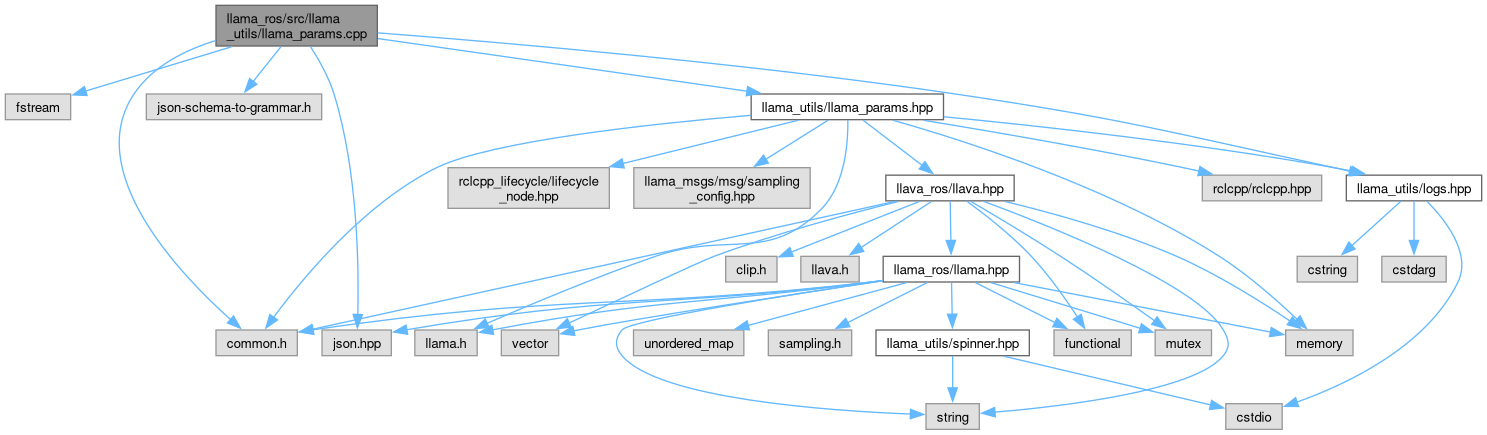
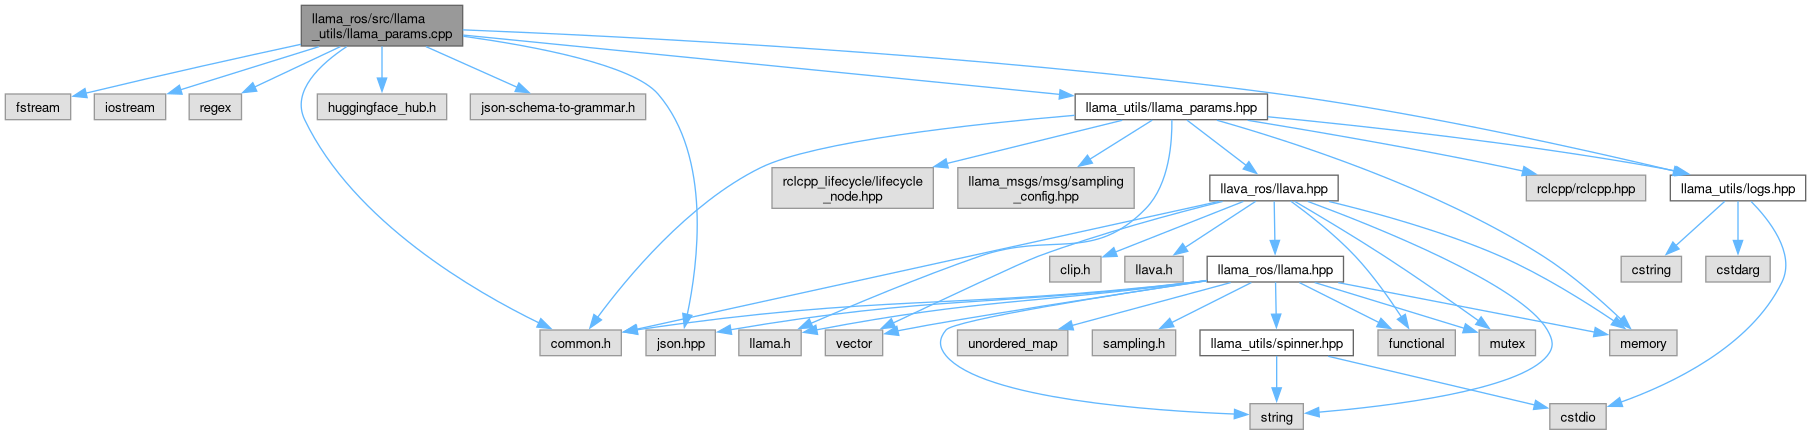
deploy: a3aeaef8e3c0aaeb9410228026620b6e1e5f8cbe

diff --git a/llama__params_8cpp.html b/llama__params_8cpp.html
@@ -95,7 +95,10 @@ $(function(){ initResizable(false); });
 </div><!--header-->
 <div class="contents">
 <div class="textblock"><code>#include &lt;fstream&gt;</code><br />
+<code>#include &lt;iostream&gt;</code><br />
+<code>#include &lt;regex&gt;</code><br />
 <code>#include &quot;common.h&quot;</code><br />
+<code>#include &quot;huggingface_hub.h&quot;</code><br />
 <code>#include &quot;json-schema-to-grammar.h&quot;</code><br />
 <code>#include &quot;json.hpp&quot;</code><br />
 <code>#include &quot;<a class="el" href="llama__params_8hpp_source.html">llama_utils/llama_params.hpp</a>&quot;</code><br />
@@ -105,71 +108,77 @@ Include dependency graph for llama_params.cpp:</div>
 <div class="dyncontent">
 <div class="center"><img src="llama__params_8cpp__incl.png" border="0" usemap="#allama__ros_2src_2llama__utils_2llama__params_8cpp" alt=""/></div>
 <map name="allama__ros_2src_2llama__utils_2llama__params_8cpp" id="allama__ros_2src_2llama__utils_2llama__params_8cpp">
-<area shape="rect" title=" " alt="" coords="216,5,377,46"/>
+<area shape="rect" title=" " alt="" coords="301,5,463,46"/>
 <area shape="rect" title=" " alt="" coords="5,94,71,120"/>
-<area shape="poly" title=" " alt="" coords="233,49,86,94,85,89,231,44"/>
-<area shape="rect" title=" " alt="" coords="216,330,297,356"/>
-<area shape="poly" title=" " alt="" coords="217,43,172,63,152,77,136,95,124,125,123,156,131,187,146,218,189,275,232,318,229,321,185,278,142,221,126,189,117,156,119,124,132,93,148,73,169,58,215,38"/>
-<area shape="rect" title=" " alt="" coords="146,94,322,120"/>
-<area shape="poly" title=" " alt="" coords="283,48,255,83,251,80,279,45"/>
-<area shape="rect" title=" " alt="" coords="322,330,391,356"/>
-<area shape="poly" title=" " alt="" coords="313,45,326,68,337,93,351,154,358,216,360,315,355,315,353,216,345,155,331,95,321,70,308,48"/>
-<area shape="rect" href="llama__params_8hpp.html" title=" " alt="" coords="751,94,944,120"/>
-<area shape="poly" title=" " alt="" coords="378,36,747,89,747,94,378,41"/>
-<area shape="rect" href="logs_8hpp.html" title=" " alt="" coords="1346,175,1482,201"/>
-<area shape="poly" title=" " alt="" coords="378,30,636,53,795,70,956,91,1146,124,1335,165,1350,169,1349,174,1333,170,1145,129,955,97,795,76,635,58,377,36"/>
-<area shape="poly" title=" " alt="" coords="751,118,575,138,494,152,438,170,386,203,340,243,303,285,275,319,271,316,299,281,337,240,383,199,436,165,493,147,575,132,750,113"/>
-<area shape="rect" title=" " alt="" coords="1286,330,1353,356"/>
-<area shape="poly" title=" " alt="" coords="894,118,960,138,1044,168,1134,206,1221,254,1264,286,1299,318,1295,322,1260,290,1218,259,1132,211,1042,173,959,143,892,123"/>
-<area shape="rect" title=" " alt="" coords="1202,175,1322,201"/>
-<area shape="poly" title=" " alt="" coords="924,118,1184,165,1200,168,1198,174,1183,170,923,123"/>
-<area shape="rect" title=" " alt="" coords="448,168,609,208"/>
-<area shape="poly" title=" " alt="" coords="799,123,624,166,622,161,798,118"/>
-<area shape="rect" title=" " alt="" coords="415,330,477,356"/>
-<area shape="poly" title=" " alt="" coords="851,120,847,163,838,188,824,210,804,227,785,238,746,246,705,249,656,259,565,293,488,326,486,321,563,288,655,254,704,243,746,241,783,233,801,223,820,207,834,186,841,162,845,120"/>
-<area shape="rect" title=" " alt="" coords="634,168,810,208"/>
-<area shape="poly" title=" " alt="" coords="830,122,767,162,764,157,827,118"/>
-<area shape="poly" title=" " alt="" coords="944,114,1126,134,1334,165,1352,169,1351,174,1334,170,1125,139,944,119"/>
-<area shape="rect" href="llava_8hpp.html" title=" " alt="" coords="886,175,1014,201"/>
-<area shape="poly" title=" " alt="" coords="865,118,924,163,921,167,861,122"/>
-<area shape="rect" title=" " alt="" coords="1382,256,1446,282"/>
-<area shape="poly" title=" " alt="" coords="1417,201,1417,240,1411,240,1411,201"/>
-<area shape="rect" title=" " alt="" coords="1226,404,1282,429"/>
-<area shape="poly" title=" " alt="" coords="1429,200,1443,216,1457,236,1464,260,1461,283,1446,307,1429,327,1386,362,1340,387,1298,405,1296,400,1338,382,1383,357,1425,324,1442,303,1455,281,1459,260,1452,239,1439,219,1425,203"/>
-<area shape="rect" title=" " alt="" coords="1297,256,1358,282"/>
-<area shape="poly" title=" " alt="" coords="1403,203,1354,248,1350,244,1399,199"/>
-<area shape="poly" title=" " alt="" coords="896,204,313,332,312,327,894,199"/>
-<area shape="poly" title=" " alt="" coords="1006,199,1088,221,1178,254,1240,286,1292,319,1289,323,1237,291,1176,259,1086,226,1004,204"/>
-<area shape="rect" title=" " alt="" coords="1054,330,1131,356"/>
-<area shape="poly" title=" " alt="" coords="968,199,1000,223,1033,255,1080,316,1075,319,1029,258,996,227,965,203"/>
-<area shape="rect" title=" " alt="" coords="1155,330,1212,356"/>
-<area shape="poly" title=" " alt="" coords="972,199,1062,254,1156,319,1153,323,1059,259,969,204"/>
-<area shape="rect" title=" " alt="" coords="926,404,979,429"/>
-<area shape="poly" title=" " alt="" coords="985,199,1047,223,1120,256,1186,292,1210,311,1226,329,1231,343,1225,357,1210,370,1186,381,1125,397,1056,408,995,415,995,410,1055,403,1124,392,1185,376,1207,366,1221,354,1225,343,1221,331,1207,314,1183,296,1118,260,1045,228,983,204"/>
-<area shape="rect" title=" " alt="" coords="501,330,559,356"/>
-<area shape="poly" title=" " alt="" coords="899,204,812,227,715,259,570,325,568,321,713,254,811,222,898,199"/>
-<area shape="rect" title=" " alt="" coords="726,256,777,282"/>
-<area shape="poly" title=" " alt="" coords="920,204,792,255,790,250,918,199"/>
-<area shape="rect" title=" " alt="" coords="801,256,859,282"/>
-<area shape="poly" title=" " alt="" coords="933,203,862,250,859,246,930,199"/>
-<area shape="rect" href="llama_8hpp.html" title=" " alt="" coords="883,256,1020,282"/>
-<area shape="poly" title=" " alt="" coords="953,201,954,240,948,241,948,201"/>
-<area shape="poly" title=" " alt="" coords="883,283,872,285,716,299,594,305,470,314,313,332,313,327,470,308,593,300,716,293,871,279,883,278"/>
-<area shape="poly" title=" " alt="" coords="883,283,872,285,742,298,640,305,538,314,407,332,406,327,537,308,640,299,742,292,871,279,883,278"/>
-<area shape="poly" title=" " alt="" coords="1015,280,1271,329,1270,335,1014,285"/>
-<area shape="poly" title=" " alt="" coords="883,283,872,285,683,305,600,315,493,332,492,327,599,309,683,300,871,279,882,278"/>
-<area shape="poly" title=" " alt="" coords="977,280,1056,320,1054,325,974,285"/>
-<area shape="poly" title=" " alt="" coords="991,280,1141,326,1140,331,990,285"/>
-<area shape="poly" title=" " alt="" coords="883,283,721,310,654,323,624,332,619,343,624,354,643,368,672,380,750,397,837,407,911,411,910,417,836,412,749,403,670,385,640,373,620,357,614,343,620,328,652,317,720,304,882,278"/>
-<area shape="poly" title=" " alt="" coords="883,283,578,333,574,334,573,328,578,327,882,278"/>
-<area shape="rect" title=" " alt="" coords="634,330,744,356"/>
-<area shape="poly" title=" " alt="" coords="907,285,748,328,747,323,906,280"/>
-<area shape="rect" title=" " alt="" coords="768,330,852,356"/>
-<area shape="poly" title=" " alt="" coords="929,285,849,325,846,320,926,280"/>
-<area shape="rect" href="spinner_8hpp.html" title=" " alt="" coords="876,330,1029,356"/>
-<area shape="poly" title=" " alt="" coords="954,282,955,314,949,314,949,282"/>
-<area shape="poly" title=" " alt="" coords="1005,354,1211,402,1210,408,1004,359"/>
-<area shape="poly" title=" " alt="" coords="955,356,955,388,950,388,950,356"/>
+<area shape="poly" title=" " alt="" coords="302,47,87,96,85,91,300,42"/>
+<area shape="rect" title=" " alt="" coords="94,94,166,120"/>
+<area shape="poly" title=" " alt="" coords="320,49,181,92,180,87,318,44"/>
+<area shape="rect" title=" " alt="" coords="189,94,242,120"/>
+<area shape="poly" title=" " alt="" coords="342,49,256,89,254,85,339,44"/>
+<area shape="rect" title=" " alt="" coords="540,330,621,356"/>
+<area shape="poly" title=" " alt="" coords="348,49,329,63,313,80,304,99,307,119,328,155,355,188,385,219,418,246,484,290,540,321,538,325,481,295,415,250,382,223,351,192,324,158,302,121,299,98,308,77,325,59,345,44"/>
+<area shape="rect" title=" " alt="" coords="317,94,447,120"/>
+<area shape="poly" title=" " alt="" coords="385,46,385,78,379,78,379,46"/>
+<area shape="rect" title=" " alt="" coords="470,94,646,120"/>
+<area shape="poly" title=" " alt="" coords="427,44,518,85,516,90,425,49"/>
+<area shape="rect" title=" " alt="" coords="646,330,715,356"/>
+<area shape="poly" title=" " alt="" coords="464,34,579,55,628,72,647,81,660,92,678,118,689,147,696,178,700,209,697,268,690,315,685,314,692,268,694,209,691,179,684,149,673,121,656,96,644,86,626,77,578,61,463,39"/>
+<area shape="rect" href="llama__params_8hpp.html" title=" " alt="" coords="1075,94,1268,120"/>
+<area shape="poly" title=" " alt="" coords="463,32,1060,92,1059,97,463,38"/>
+<area shape="rect" href="logs_8hpp.html" title=" " alt="" coords="1670,175,1806,201"/>
+<area shape="poly" title=" " alt="" coords="463,27,818,47,1048,65,1280,91,1389,109,1498,129,1675,168,1674,174,1497,134,1388,114,1279,97,1047,71,818,52,463,33"/>
+<area shape="poly" title=" " alt="" coords="1075,118,899,138,818,152,762,170,710,203,664,243,627,285,599,319,595,316,623,281,661,240,707,199,760,165,817,147,899,132,1074,113"/>
+<area shape="rect" title=" " alt="" coords="1610,330,1677,356"/>
+<area shape="poly" title=" " alt="" coords="1218,118,1284,138,1368,168,1458,206,1545,254,1588,286,1623,318,1619,322,1584,290,1542,259,1456,211,1366,173,1283,143,1216,123"/>
+<area shape="rect" title=" " alt="" coords="1526,175,1646,201"/>
+<area shape="poly" title=" " alt="" coords="1248,118,1508,165,1524,168,1522,174,1507,170,1247,123"/>
+<area shape="rect" title=" " alt="" coords="772,168,933,208"/>
+<area shape="poly" title=" " alt="" coords="1123,123,948,166,946,161,1122,118"/>
+<area shape="rect" title=" " alt="" coords="739,330,801,356"/>
+<area shape="poly" title=" " alt="" coords="1175,120,1171,163,1162,188,1148,210,1128,227,1109,238,1070,246,1029,249,980,259,889,293,812,326,810,321,887,288,979,254,1028,243,1070,241,1107,233,1125,223,1144,207,1158,186,1165,162,1169,120"/>
+<area shape="rect" title=" " alt="" coords="958,168,1134,208"/>
+<area shape="poly" title=" " alt="" coords="1154,122,1091,162,1088,157,1151,118"/>
+<area shape="poly" title=" " alt="" coords="1268,114,1450,134,1658,165,1676,169,1675,174,1658,170,1449,139,1268,119"/>
+<area shape="rect" href="llava_8hpp.html" title=" " alt="" coords="1210,175,1338,201"/>
+<area shape="poly" title=" " alt="" coords="1189,118,1248,163,1245,167,1185,122"/>
+<area shape="rect" title=" " alt="" coords="1706,256,1770,282"/>
+<area shape="poly" title=" " alt="" coords="1741,201,1741,240,1735,240,1735,201"/>
+<area shape="rect" title=" " alt="" coords="1550,404,1606,429"/>
+<area shape="poly" title=" " alt="" coords="1753,200,1767,216,1781,236,1788,260,1785,283,1770,307,1753,327,1710,362,1664,387,1622,405,1620,400,1662,382,1707,357,1749,324,1766,303,1779,281,1783,260,1776,239,1763,219,1749,203"/>
+<area shape="rect" title=" " alt="" coords="1621,256,1682,282"/>
+<area shape="poly" title=" " alt="" coords="1727,203,1678,248,1674,244,1723,199"/>
+<area shape="poly" title=" " alt="" coords="1220,204,637,332,636,327,1218,199"/>
+<area shape="poly" title=" " alt="" coords="1330,199,1412,221,1502,254,1564,286,1616,319,1613,323,1561,291,1500,259,1410,226,1328,204"/>
+<area shape="rect" title=" " alt="" coords="1378,330,1455,356"/>
+<area shape="poly" title=" " alt="" coords="1292,199,1324,223,1357,255,1404,316,1399,319,1353,258,1320,227,1289,203"/>
+<area shape="rect" title=" " alt="" coords="1479,330,1536,356"/>
+<area shape="poly" title=" " alt="" coords="1296,199,1386,254,1480,319,1477,323,1383,259,1293,204"/>
+<area shape="rect" title=" " alt="" coords="1250,404,1303,429"/>
+<area shape="poly" title=" " alt="" coords="1309,199,1371,223,1444,256,1510,292,1534,311,1550,329,1555,343,1549,357,1534,370,1510,381,1449,397,1380,408,1319,415,1319,410,1379,403,1448,392,1509,376,1531,366,1545,354,1549,343,1545,331,1531,314,1507,296,1442,260,1369,228,1307,204"/>
+<area shape="rect" title=" " alt="" coords="825,330,883,356"/>
+<area shape="poly" title=" " alt="" coords="1223,204,1136,227,1039,259,894,325,892,321,1037,254,1135,222,1222,199"/>
+<area shape="rect" title=" " alt="" coords="1050,256,1101,282"/>
+<area shape="poly" title=" " alt="" coords="1244,204,1116,255,1114,250,1242,199"/>
+<area shape="rect" title=" " alt="" coords="1125,256,1183,282"/>
+<area shape="poly" title=" " alt="" coords="1257,203,1186,250,1183,246,1254,199"/>
+<area shape="rect" href="llama_8hpp.html" title=" " alt="" coords="1207,256,1344,282"/>
+<area shape="poly" title=" " alt="" coords="1277,201,1278,240,1272,241,1272,201"/>
+<area shape="poly" title=" " alt="" coords="1207,283,1196,285,1040,299,918,305,794,314,637,332,637,327,794,308,917,300,1040,293,1195,279,1207,278"/>
+<area shape="poly" title=" " alt="" coords="1207,283,1196,285,1066,298,964,305,862,314,731,332,730,327,861,308,964,299,1066,292,1195,279,1207,278"/>
+<area shape="poly" title=" " alt="" coords="1339,280,1595,329,1594,335,1338,285"/>
+<area shape="poly" title=" " alt="" coords="1207,283,1196,285,1007,305,924,315,817,332,816,327,923,309,1007,300,1195,279,1206,278"/>
+<area shape="poly" title=" " alt="" coords="1301,280,1380,320,1378,325,1298,285"/>
+<area shape="poly" title=" " alt="" coords="1315,280,1465,326,1464,331,1314,285"/>
+<area shape="poly" title=" " alt="" coords="1207,283,1045,310,978,323,948,332,943,343,948,354,967,368,996,380,1074,397,1161,407,1235,411,1234,417,1160,412,1073,403,994,385,964,373,944,357,938,343,944,328,976,317,1044,304,1206,278"/>
+<area shape="poly" title=" " alt="" coords="1207,283,902,333,898,334,897,328,902,327,1206,278"/>
+<area shape="rect" title=" " alt="" coords="958,330,1068,356"/>
+<area shape="poly" title=" " alt="" coords="1231,285,1072,328,1071,323,1230,280"/>
+<area shape="rect" title=" " alt="" coords="1092,330,1176,356"/>
+<area shape="poly" title=" " alt="" coords="1253,285,1173,325,1170,320,1250,280"/>
+<area shape="rect" href="spinner_8hpp.html" title=" " alt="" coords="1200,330,1353,356"/>
+<area shape="poly" title=" " alt="" coords="1278,282,1279,314,1273,314,1273,282"/>
+<area shape="poly" title=" " alt="" coords="1329,354,1535,402,1534,408,1328,359"/>
+<area shape="poly" title=" " alt="" coords="1279,356,1279,388,1274,388,1274,356"/>
 </map>
 </div>
 </div><table class="memberdecls">
@@ -177,6 +186,8 @@ Include dependency graph for llama_params.cpp:</div>
 Functions</h2></td></tr>
 <tr class="memitem:a6022dd052437b9f97f6c1ffc13f5e518" id="r_a6022dd052437b9f97f6c1ffc13f5e518"><td class="memItemLeft" align="right" valign="top">void&#160;</td><td class="memItemRight" valign="bottom"><a class="el" href="#a6022dd052437b9f97f6c1ffc13f5e518">replace_all</a> (std::string &amp;input, const std::string &amp;old_str, const std::string &amp;new_str)</td></tr>
 <tr class="separator:a6022dd052437b9f97f6c1ffc13f5e518"><td class="memSeparator" colspan="2">&#160;</td></tr>
+<tr class="memitem:a2d3996bd542a4a2b433b610d13faf5a3" id="r_a2d3996bd542a4a2b433b610d13faf5a3"><td class="memItemLeft" align="right" valign="top">std::string&#160;</td><td class="memItemRight" valign="bottom"><a class="el" href="#a2d3996bd542a4a2b433b610d13faf5a3">download_model</a> (const std::string &amp;repo_id, const std::string &amp;filename)</td></tr>
+<tr class="separator:a2d3996bd542a4a2b433b610d13faf5a3"><td class="memSeparator" colspan="2">&#160;</td></tr>
 </table><table class="memberdecls">
 <tr class="heading"><td colspan="2"><h2 class="groupheader"><a id="var-members" name="var-members"></a>
 Variables</h2></td></tr>
@@ -184,6 +195,27 @@ Variables</h2></td></tr>
 <tr class="separator:a9e6149e88c7ff01a3287fa75c37bbe80"><td class="memSeparator" colspan="2">&#160;</td></tr>
 </table>
 <h2 class="groupheader">Function Documentation</h2>
+<a id="a2d3996bd542a4a2b433b610d13faf5a3" name="a2d3996bd542a4a2b433b610d13faf5a3"></a>
+<h2 class="memtitle"><span class="permalink"><a href="#a2d3996bd542a4a2b433b610d13faf5a3">&#9670;&#160;</a></span>download_model()</h2>
+
+<div class="memitem">
+<div class="memproto">
+      <table class="memname">
+        <tr>
+          <td class="memname">std::string download_model </td>
+          <td>(</td>
+          <td class="paramtype">const std::string &amp;</td>          <td class="paramname"><span class="paramname"><em>repo_id</em></span>, </td>
+        </tr>
+        <tr>
+          <td class="paramkey"></td>
+          <td></td>
+          <td class="paramtype">const std::string &amp;</td>          <td class="paramname"><span class="paramname"><em>filename</em></span>&#160;)</td>
+        </tr>
+      </table>
+</div><div class="memdoc">
+
+</div>
+</div>
 <a id="a6022dd052437b9f97f6c1ffc13f5e518" name="a6022dd052437b9f97f6c1ffc13f5e518"></a>
 <h2 class="memtitle"><span class="permalink"><a href="#a6022dd052437b9f97f6c1ffc13f5e518">&#9670;&#160;</a></span>replace_all()</h2>
 

diff --git a/llama__params_8hpp_source.html b/llama__params_8hpp_source.html
@@ -157,10 +157,10 @@ $(function(){ initResizable(false); });
 <div class="ttc" id="allava_8hpp_html"><div class="ttname"><a href="llava_8hpp.html">llava.hpp</a></div></div>
 <div class="ttc" id="alogs_8hpp_html"><div class="ttname"><a href="logs_8hpp.html">logs.hpp</a></div></div>
 <div class="ttc" id="anamespacellama__utils_html"><div class="ttname"><a href="namespacellama__utils.html">llama_utils</a></div><div class="ttdef"><b>Definition</b> llama_params.hpp:37</div></div>
-<div class="ttc" id="anamespacellama__utils_html_a15366a6874997fa374cefb55bea95dd1"><div class="ttname"><a href="namespacellama__utils.html#a15366a6874997fa374cefb55bea95dd1">llama_utils::parse_priority</a></div><div class="ttdeci">enum ggml_sched_priority parse_priority(std::string priority)</div><div class="ttdef"><b>Definition</b> llama_params.cpp:437</div></div>
-<div class="ttc" id="anamespacellama__utils_html_a4e3b2181ccb7818a8a8498ffdbd1309a"><div class="ttname"><a href="namespacellama__utils.html#a4e3b2181ccb7818a8a8498ffdbd1309a">llama_utils::declare_llama_params</a></div><div class="ttdeci">void declare_llama_params(const rclcpp_lifecycle::LifecycleNode::SharedPtr &amp;node)</div><div class="ttdef"><b>Definition</b> llama_params.cpp:58</div></div>
-<div class="ttc" id="anamespacellama__utils_html_a7123c0ccc68853d01feaa11bc6aa2e0f"><div class="ttname"><a href="namespacellama__utils.html#a7123c0ccc68853d01feaa11bc6aa2e0f">llama_utils::parse_sampling_params</a></div><div class="ttdeci">struct common_params_sampling parse_sampling_params(const llama_msgs::msg::SamplingConfig &amp;sampling_config, int n_vocab)</div><div class="ttdef"><b>Definition</b> llama_params.cpp:451</div></div>
-<div class="ttc" id="anamespacellama__utils_html_acf837a2a370882bdf2f841fad0582ea9"><div class="ttname"><a href="namespacellama__utils.html#acf837a2a370882bdf2f841fad0582ea9">llama_utils::get_llama_params</a></div><div class="ttdeci">struct LlamaParams get_llama_params(const rclcpp_lifecycle::LifecycleNode::SharedPtr &amp;node)</div><div class="ttdef"><b>Definition</b> llama_params.cpp:138</div></div>
+<div class="ttc" id="anamespacellama__utils_html_a15366a6874997fa374cefb55bea95dd1"><div class="ttname"><a href="namespacellama__utils.html#a15366a6874997fa374cefb55bea95dd1">llama_utils::parse_priority</a></div><div class="ttdeci">enum ggml_sched_priority parse_priority(std::string priority)</div><div class="ttdef"><b>Definition</b> llama_params.cpp:506</div></div>
+<div class="ttc" id="anamespacellama__utils_html_a4e3b2181ccb7818a8a8498ffdbd1309a"><div class="ttname"><a href="namespacellama__utils.html#a4e3b2181ccb7818a8a8498ffdbd1309a">llama_utils::declare_llama_params</a></div><div class="ttdeci">void declare_llama_params(const rclcpp_lifecycle::LifecycleNode::SharedPtr &amp;node)</div><div class="ttdef"><b>Definition</b> llama_params.cpp:73</div></div>
+<div class="ttc" id="anamespacellama__utils_html_a7123c0ccc68853d01feaa11bc6aa2e0f"><div class="ttname"><a href="namespacellama__utils.html#a7123c0ccc68853d01feaa11bc6aa2e0f">llama_utils::parse_sampling_params</a></div><div class="ttdeci">struct common_params_sampling parse_sampling_params(const llama_msgs::msg::SamplingConfig &amp;sampling_config, int n_vocab)</div><div class="ttdef"><b>Definition</b> llama_params.cpp:520</div></div>
+<div class="ttc" id="anamespacellama__utils_html_acf837a2a370882bdf2f841fad0582ea9"><div class="ttname"><a href="namespacellama__utils.html#acf837a2a370882bdf2f841fad0582ea9">llama_utils::get_llama_params</a></div><div class="ttdeci">struct LlamaParams get_llama_params(const rclcpp_lifecycle::LifecycleNode::SharedPtr &amp;node)</div><div class="ttdef"><b>Definition</b> llama_params.cpp:159</div></div>
 <div class="ttc" id="astructllama__utils_1_1LlamaParams_html"><div class="ttname"><a href="structllama__utils_1_1LlamaParams.html">llama_utils::LlamaParams</a></div><div class="ttdef"><b>Definition</b> llama_params.hpp:39</div></div>
 <div class="ttc" id="astructllama__utils_1_1LlamaParams_html_a89a676517fb802fced98ede2c3796a01"><div class="ttname"><a href="structllama__utils_1_1LlamaParams.html#a89a676517fb802fced98ede2c3796a01">llama_utils::LlamaParams::system_prompt</a></div><div class="ttdeci">std::string system_prompt</div><div class="ttdef"><b>Definition</b> llama_params.hpp:40</div></div>
 <div class="ttc" id="astructllama__utils_1_1LlamaParams_html_aa4455bdb0f9135496ecbcf29dc9ad76a"><div class="ttname"><a href="structllama__utils_1_1LlamaParams.html#aa4455bdb0f9135496ecbcf29dc9ad76a">llama_utils::LlamaParams::llava_params</a></div><div class="ttdeci">struct llava_ros::LlavaParams llava_params</div><div class="ttdef"><b>Definition</b> llama_params.hpp:42</div></div>

diff --git a/namespacellama__bringup_1_1utils.html b/namespacellama__bringup_1_1utils.html
@@ -96,8 +96,6 @@ $(function(){ initResizable(false); });
 <table class="memberdecls">
 <tr class="heading"><td colspan="2"><h2 class="groupheader"><a id="func-members" name="func-members"></a>
 Functions</h2></td></tr>
-<tr class="memitem:ae86af060ede032c800e4ef5d4b1951c6" id="r_ae86af060ede032c800e4ef5d4b1951c6"><td class="memItemLeft" align="right" valign="top">str&#160;</td><td class="memItemRight" valign="bottom"><a class="el" href="#ae86af060ede032c800e4ef5d4b1951c6">download_model</a> (str repo, str file)</td></tr>
-<tr class="separator:ae86af060ede032c800e4ef5d4b1951c6"><td class="memSeparator" colspan="2">&#160;</td></tr>
 <tr class="memitem:a156a8352d832e1d98e764122cfce2fbb" id="r_a156a8352d832e1d98e764122cfce2fbb"><td class="memItemLeft" align="right" valign="top">Tuple&#160;</td><td class="memItemRight" valign="bottom"><a class="el" href="#a156a8352d832e1d98e764122cfce2fbb">load_prompt_type</a> (str prompt_file_name)</td></tr>
 <tr class="separator:a156a8352d832e1d98e764122cfce2fbb"><td class="memSeparator" colspan="2">&#160;</td></tr>
 <tr class="memitem:accce4f9b760ca1f4b3a029c90b88932e" id="r_accce4f9b760ca1f4b3a029c90b88932e"><td class="memItemLeft" align="right" valign="top">IncludeLaunchDescription&#160;</td><td class="memItemRight" valign="bottom"><a class="el" href="#accce4f9b760ca1f4b3a029c90b88932e">create_llama_launch_from_yaml</a> (str file_path)</td></tr>
@@ -134,27 +132,6 @@ Functions</h2></td></tr>
           <td>(</td>
           <td class="paramtype">str</td>          <td class="paramname"><span class="paramname"><em>file_path</em></span></td><td>)</td>
           <td></td>
-        </tr>
-      </table>
-</div><div class="memdoc">
-
-</div>
-</div>
-<a id="ae86af060ede032c800e4ef5d4b1951c6" name="ae86af060ede032c800e4ef5d4b1951c6"></a>
-<h2 class="memtitle"><span class="permalink"><a href="#ae86af060ede032c800e4ef5d4b1951c6">&#9670;&#160;</a></span>download_model()</h2>
-
-<div class="memitem">
-<div class="memproto">
-      <table class="memname">
-        <tr>
-          <td class="memname"> str llama_bringup.utils.download_model </td>
-          <td>(</td>
-          <td class="paramtype">str</td>          <td class="paramname"><span class="paramname"><em>repo</em></span>, </td>
-        </tr>
-        <tr>
-          <td class="paramkey"></td>
-          <td></td>
-          <td class="paramtype">str</td>          <td class="paramname"><span class="paramname"><em>file</em></span>&#160;)</td>
         </tr>
       </table>
 </div><div class="memdoc">

diff --git a/utils_8py.html b/utils_8py.html
@@ -104,8 +104,6 @@ Namespaces</h2></td></tr>
 </table><table class="memberdecls">
 <tr class="heading"><td colspan="2"><h2 class="groupheader"><a id="func-members" name="func-members"></a>
 Functions</h2></td></tr>
-<tr class="memitem:ae86af060ede032c800e4ef5d4b1951c6" id="r_ae86af060ede032c800e4ef5d4b1951c6"><td class="memItemLeft" align="right" valign="top">str&#160;</td><td class="memItemRight" valign="bottom"><a class="el" href="namespacellama__bringup_1_1utils.html#ae86af060ede032c800e4ef5d4b1951c6">llama_bringup.utils.download_model</a> (str repo, str file)</td></tr>
-<tr class="separator:ae86af060ede032c800e4ef5d4b1951c6"><td class="memSeparator" colspan="2">&#160;</td></tr>
 <tr class="memitem:a156a8352d832e1d98e764122cfce2fbb" id="r_a156a8352d832e1d98e764122cfce2fbb"><td class="memItemLeft" align="right" valign="top">Tuple&#160;</td><td class="memItemRight" valign="bottom"><a class="el" href="namespacellama__bringup_1_1utils.html#a156a8352d832e1d98e764122cfce2fbb">llama_bringup.utils.load_prompt_type</a> (str prompt_file_name)</td></tr>
 <tr class="separator:a156a8352d832e1d98e764122cfce2fbb"><td class="memSeparator" colspan="2">&#160;</td></tr>
 <tr class="memitem:accce4f9b760ca1f4b3a029c90b88932e" id="r_accce4f9b760ca1f4b3a029c90b88932e"><td class="memItemLeft" align="right" valign="top">IncludeLaunchDescription&#160;</td><td class="memItemRight" valign="bottom"><a class="el" href="namespacellama__bringup_1_1utils.html#accce4f9b760ca1f4b3a029c90b88932e">llama_bringup.utils.create_llama_launch_from_yaml</a> (str file_path)</td></tr>

diff --git a/search/all_5.js b/search/all_5.js
@@ -23,7 +23,7 @@ var searchData=
   ['docs_20',['docs',['../namespacellama__demos_1_1llama__rag__demo__node.html#a041abe55c7a19c326978e94879829f81',1,'llama_demos::llama_rag_demo_node']]],
   ['documents_21',['documents',['../namespacellama__demos_1_1llama__rerank__demo__node.html#ae584ce92dedb5d48796814473662f57a',1,'llama_demos::llama_rerank_demo_node']]],
   ['doi_22',['doi',['../structllama__ros_1_1Metadata_1_1GeneralInfo.html#a566748f4a385b3bae261c0553121f050',1,'llama_ros::Metadata::GeneralInfo']]],
-  ['download_5fmodel_23',['download_model',['../namespacellama__bringup_1_1utils.html#ae86af060ede032c800e4ef5d4b1951c6',1,'llama_bringup::utils']]],
+  ['download_5fmodel_23',['download_model',['../llama__params_8cpp.html#a2d3996bd542a4a2b433b610d13faf5a3',1,'llama_params.cpp']]],
   ['dry_5fallowed_5flength_24',['dry_allowed_length',['../classllama__ros_1_1langchain_1_1llama__ros__common_1_1LlamaROSCommon.html#ab47daa47f95aab4996a09e80a92a6789',1,'llama_ros::langchain::llama_ros_common::LlamaROSCommon']]],
   ['dry_5fbase_25',['dry_base',['../classllama__ros_1_1langchain_1_1llama__ros__common_1_1LlamaROSCommon.html#add2cb64d3b1801c680c46eab8e121bdb',1,'llama_ros::langchain::llama_ros_common::LlamaROSCommon']]],
   ['dry_5fmultiplier_26',['dry_multiplier',['../classllama__ros_1_1langchain_1_1llama__ros__common_1_1LlamaROSCommon.html#a73c2fac7ba904796fdd6723e58c1d593',1,'llama_ros::langchain::llama_ros_common::LlamaROSCommon']]],

diff --git a/search/functions_4.js b/search/functions_4.js
@@ -8,5 +8,5 @@ var searchData=
   ['destroy_5fllama_5',['destroy_llama',['../classllama__ros_1_1LlamaNode.html#abdd5048773256f713b40cf888236701b',1,'llama_ros::LlamaNode']]],
   ['detokenize_6',['detokenize',['../classllama__ros_1_1Llama.html#a15eca739cca843954ec299326a462305',1,'llama_ros::Llama::detokenize()'],['../classllama__ros_1_1llama__client__node_1_1LlamaClientNode.html#a8031a70ad1a207822227457d94539d73',1,'llama_ros.llama_client_node.LlamaClientNode.detokenize()']]],
   ['detokenize_5fservice_5fcallback_7',['detokenize_service_callback',['../classllama__ros_1_1LlamaNode.html#a1c9100c4eed9a3f9430dfa6c2fd41cf8',1,'llama_ros::LlamaNode']]],
-  ['download_5fmodel_8',['download_model',['../namespacellama__bringup_1_1utils.html#ae86af060ede032c800e4ef5d4b1951c6',1,'llama_bringup::utils']]]
+  ['download_5fmodel_8',['download_model',['../llama__params_8cpp.html#a2d3996bd542a4a2b433b610d13faf5a3',1,'llama_params.cpp']]]
 ];

diff --git a/doxygen_crawl.html b/doxygen_crawl.html
@@ -502,6 +502,7 @@
 <a href="llama__node_8hpp.html"/>
 <a href="llama__node_8hpp_source.html"/>
 <a href="llama__params_8cpp.html"/>
+<a href="llama__params_8cpp.html#a2d3996bd542a4a2b433b610d13faf5a3"/>
 <a href="llama__params_8cpp.html#a6022dd052437b9f97f6c1ffc13f5e518"/>
 <a href="llama__params_8cpp.html#a9e6149e88c7ff01a3287fa75c37bbe80"/>
 <a href="llama__params_8hpp.html"/>
@@ -538,7 +539,6 @@
 <a href="namespacellama__bringup_1_1utils.html#a156a8352d832e1d98e764122cfce2fbb"/>
 <a href="namespacellama__bringup_1_1utils.html#a194fa6112fcea4cd0e54ff4f1d4e397a"/>
 <a href="namespacellama__bringup_1_1utils.html#accce4f9b760ca1f4b3a029c90b88932e"/>
-<a href="namespacellama__bringup_1_1utils.html#ae86af060ede032c800e4ef5d4b1951c6"/>
 <a href="namespacellama__cli.html"/>
 <a href="namespacellama__cli_1_1api.html"/>
 <a href="namespacellama__cli_1_1api.html#a031893e5ca6efc3b26717938eec0e178"/>

diff --git a/globals_func.html b/globals_func.html
@@ -85,6 +85,7 @@ $(function(){ initResizable(false); });
 
 <div class="contents">
 <div class="textblock">Here is a list of all functions with links to the files they belong to:</div><ul>
+<li>download_model()&#160;:&#160;<a class="el" href="llama__params_8cpp.html#a2d3996bd542a4a2b433b610d13faf5a3">llama_params.cpp</a></li>
 <li>main()&#160;:&#160;<a class="el" href="llama__main_8cpp.html#a0ddf1224851353fc92bfbff6f499fa97">llama_main.cpp</a>, <a class="el" href="llava__main_8cpp.html#a0ddf1224851353fc92bfbff6f499fa97">llava_main.cpp</a></li>
 <li>replace_all()&#160;:&#160;<a class="el" href="llama__params_8cpp.html#a6022dd052437b9f97f6c1ffc13f5e518">llama_params.cpp</a></li>
 <li>trim()&#160;:&#160;<a class="el" href="llama_8cpp.html#a5a01f705cc7b4a7317a57f6bf41aef25">llama.cpp</a></li>

diff --git a/globals.html b/globals.html
@@ -85,6 +85,7 @@ $(function(){ initResizable(false); });
 
 <div class="contents">
 <div class="textblock">Here is a list of all file members with links to the files they belong to:</div><ul>
+<li>download_model()&#160;:&#160;<a class="el" href="llama__params_8cpp.html#a2d3996bd542a4a2b433b610d13faf5a3">llama_params.cpp</a></li>
 <li>kv_cache_types&#160;:&#160;<a class="el" href="llama__params_8cpp.html#a9e6149e88c7ff01a3287fa75c37bbe80">llama_params.cpp</a></li>
 <li>LLAMA_LOG_DEBUG&#160;:&#160;<a class="el" href="logs_8hpp.html#aa13075de37f6ec373e764a61ccbf92c7">logs.hpp</a></li>
 <li>LLAMA_LOG_ERROR&#160;:&#160;<a class="el" href="logs_8hpp.html#af57cb87dacb596fda45658e510d9ac53">logs.hpp</a></li>

diff --git a/namespacemembers.html b/namespacemembers.html
@@ -116,7 +116,6 @@ $(function(){ initResizable(false); });
 <li>description&#160;:&#160;<a class="el" href="namespacesetup.html#aedf461ec52a946bda975938ba0b93ec0">setup</a></li>
 <li>docs&#160;:&#160;<a class="el" href="namespacellama__demos_1_1llama__rag__demo__node.html#a041abe55c7a19c326978e94879829f81">llama_demos.llama_rag_demo_node</a></li>
 <li>documents&#160;:&#160;<a class="el" href="namespacellama__demos_1_1llama__rerank__demo__node.html#ae584ce92dedb5d48796814473662f57a">llama_demos.llama_rerank_demo_node</a></li>
-<li>download_model()&#160;:&#160;<a class="el" href="namespacellama__bringup_1_1utils.html#ae86af060ede032c800e4ef5d4b1951c6">llama_bringup.utils</a></li>
 </ul>
 
 

diff --git a/namespacemembers_func.html b/namespacemembers_func.html
@@ -98,7 +98,6 @@ $(function(){ initResizable(false); });
 <li>default_log_error()&#160;:&#160;<a class="el" href="namespacellama__utils.html#ab28aaa02501c5b2026f1f5b83dee920a">llama_utils</a></li>
 <li>default_log_info()&#160;:&#160;<a class="el" href="namespacellama__utils.html#a9ae10fed284e61730c8127dfc78cf15f">llama_utils</a></li>
 <li>default_log_warn()&#160;:&#160;<a class="el" href="namespacellama__utils.html#ad4a869c8285438a19e9e15062000a77b">llama_utils</a></li>
-<li>download_model()&#160;:&#160;<a class="el" href="namespacellama__bringup_1_1utils.html#ae86af060ede032c800e4ef5d4b1951c6">llama_bringup.utils</a></li>
 </ul>
 
 
